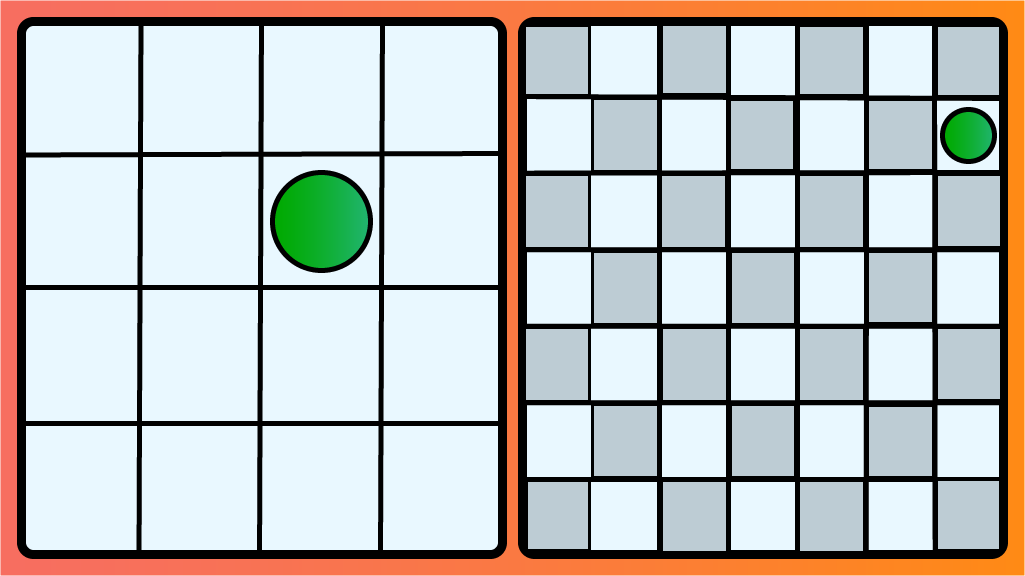
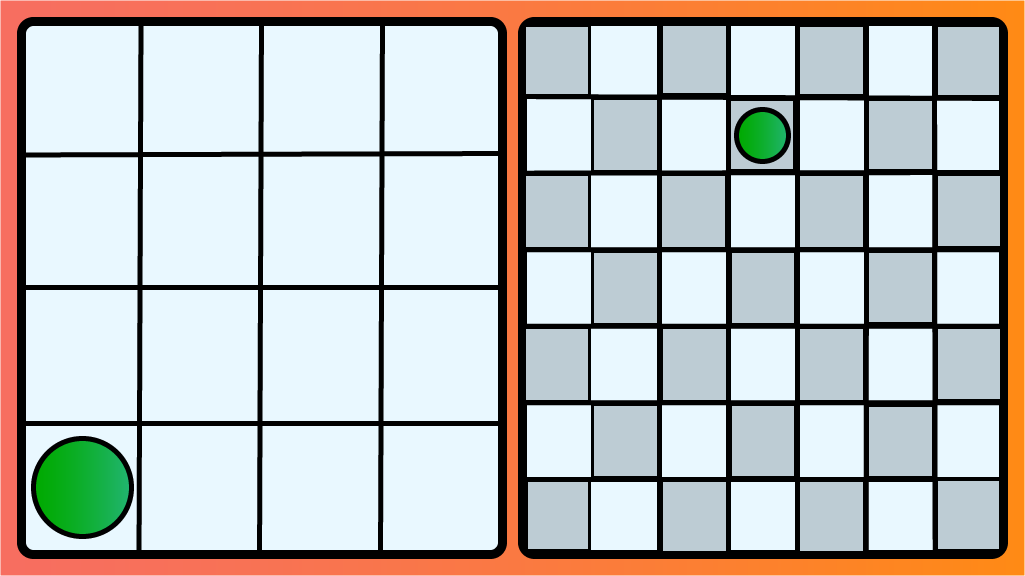
added level, added tutorial, improved level button design

diff --git a/Javascript/levels.js b/Javascript/levels.js
@@ -1,8 +1,29 @@
 let nextLevel;
 let prevLevel;
-let numLevels = 7
+let numLevels = 8
+
+// updates button style to show which level player is currently on
+function updateButtons(num) {
+    document.querySelector('#level' + num).style.border = '3px solid black'
+    for(let i = 1; i <= numLevels; i++) {
+        if(i !== num) {
+            document.querySelector('#level' + i).style.border = '3px solid grey'
+        }
+    }
+}
+
+// Called after pressing start game from menu screen. Sets all level buttons
+// to visible and starts the first level
+function enterGame() {
+    document.querySelector('#start').style.display = 'none'
+    for(let i = 1; i <= numLevels; i++) {
+        document.querySelector('#level' + i).style.display = 'inline'
+    }
+    startGame('level1')
+}
 
 function startGame(level = nextLevel) {
+   
     // level 1
     const level1 = new Level({
         levelNum: 1,
@@ -379,12 +400,86 @@ function startGame(level = nextLevel) {
             onFinish: false
         })    
     })
+     // level 4
+     const level6 = new Level({
+        levelNum: 6,
+        imageSrc: 'Img/level6.png',
+        barrierSrc: 'Img/level6-barrier.png',
+        position: {
+            x: 0,
+            y: 0
+        },
+    
+        // player
+        player: new Sprite ({
+            imageSrc: 'Img/player-beta.png',
+            position: {
+                x: PLAYER_START_X,
+                y: PLAYER_START_Y
+            },
+
+            /* 
+            2D levelMap array corresponds to each space in the player grid. 
+
+            0 = a space the player is not allowed to move to
+            1 = a space the player cannot move to
+            2 = the player's position
+            */
+            grid: [
+                [2,1,1,1],
+                [1,1,1,1],
+                [1,1,1,1],
+                [1,1,3,1]
+            ],
+            range: 1,
+            gridWidth: 482,
+            gridHeight: 536,
+            numRows: 4,
+            offsetX: GRID_MARGIN,
+            offsetY: GRID_MARGIN,
+            onFinish: false
+        }),
+
+        // mimic of player 
+        mimic: new Sprite({
+            imageSrc: 'Img/mimic-beta.png',
+            position: {
+                x: MIMIC_START_X,
+                y: MIMIC_START_Y
+            },
+
+            /* 
+            2D levelMap array corresponds to each space in the mimic grid. 
+
+            0 = a space the player is not allowed to move to
+            1 = a space the player cannot move to
+            2 = the player's position
+            3 = finishing space
+            */
+            grid: [
+                [2,1,1,1,0,0,0],
+                [0,0,0,1,0,0,0],
+                [1,1,0,1,1,1,1],
+                [1,1,1,1,1,1,1],
+                [1,1,1,1,3,1,1],
+                [1,1,1,1,1,1,1],
+                [1,1,1,1,1,1,1]
+            ],
+            range: 2,
+            gridWidth: 482,
+            gridHeight: 536,
+            numRows: 7,
+            offsetX: GRID_WIDTH + (GRID_MARGIN * 2),
+            offsetY: GRID_MARGIN,
+            onFinish: false
+        })    
+    })
 
     // level 5
-    const level6 = new Level({
-        levelNum: 6,
-        imageSrc: 'Img/level6-beta.png',
-        barrierSrc: 'Img/level6-beta-barrier.png',
+    const level7 = new Level({
+        levelNum: 7,
+        imageSrc: 'Img/level7-beta.png',
+        barrierSrc: 'Img/level7-beta-barrier.png',
         position: {
             x: 0,
             y: 0
@@ -455,10 +550,10 @@ function startGame(level = nextLevel) {
         })    
     })
     // level 6
-    const level7 = new Level({
-        levelNum: 7,
-        imageSrc: 'Img/level7-beta.png',
-        barrierSrc: 'Img/level7-beta-barrier.png',
+    const level8 = new Level({
+        levelNum: 8,
+        imageSrc: 'Img/level8-beta.png',
+        barrierSrc: 'Img/level8-beta-barrier.png',
         position: {
             x: 0,
             y: 0
@@ -532,15 +627,15 @@ function startGame(level = nextLevel) {
 
 // starts game based on level clicked on 
     if(level === "level1") {
+        //updates button styles for current level and completed levels
         updateButtons(1)
-        document.querySelector('#start').style.display = 'none'
+
         document.querySelector('#menu').style.display = 'none'
         document.querySelector('#tutorial1').style.display = 'inline'
         nextLevel = 'level2'
         playLevel(level1)
     } else if(level === "level2") {
         updateButtons(2)
-
         document.querySelector('#tutorial2').style.display = 'inline'
         nextLevel = 'level3'
         playLevel(level2)
@@ -559,11 +654,16 @@ function startGame(level = nextLevel) {
         playLevel(level5)
     } else if(level === "level6") {
         updateButtons(6)
+        document.querySelector('#tutorial4').style.display = 'inline'
         nextLevel = 'level7'
         playLevel(level6)
-    } else if (level == 'level7') {
+    } else if (level === 'level7') {
         updateButtons(7)
+        nextLevel = 'level8'
         playLevel(level7)
+    } else if (level === 'level8') {
+        updateButtons(8)
+        playLevel(level8)
     }
 }
 

diff --git a/mimic.html b/mimic.html
@@ -21,15 +21,23 @@
                 <!-- Teaches player how to utilize barriers -->
                 <p> ---TIP--- </p>
                 <p> Purple barriers can stop movement for one dot while the other can still move!</p>
-                <button class= "level-buttons" id = "finish-tutorial" onclick="closeTutorial('tutorial1')">Try it!</button>
+                <button class= "level-buttons" id = "finish-tutorial" onclick="closeTutorial('tutorial2')">Try it!</button>
             </div>
             <div id="tutorial3" class="tutorial" style="text-align: center; display: none;">
 
                 <!-- Teaches player how to move to different spaces  -->
                 <p>---TIP---</p>
                 <p>The pink dot may jump over its finish...</p>
-                <p>Try hitting it on the barrier to change from light to dark grid spaces</p>
-                <button class= "level-buttons" id = "finish-tutorial" onclick="closeTutorial('tutorial1')">Cool!</button>
+                <p>Try hitting it on the barrier to change between light and dark grid spaces</p>
+                <button class= "level-buttons" id = "finish-tutorial" onclick="closeTutorial('tutorial3')">Cool!</button>
+            </div>
+            <div id="tutorial4" class="tutorial" style="text-align: center; display: none;">
+
+                <!-- Teaches player how to move to use walls of grid to move to different spaces -->
+                <p>---TIP---</p>
+                <p>Remember, moving 1 space instead of 2 with the pink dot is possible</p>
+                <p>If you're one away from the edge of the grid, hit it to change between dark and light spaces</p>
+                <button class= "level-buttons" id = "finish-tutorial" onclick="closeTutorial('tutorial4')">Great!</button>
             </div>
 
             <!-- Level Complete -->
@@ -47,18 +55,19 @@
     </div>
 
     <!-- Level buttons, display updated after each completion -->
-    <div id="levels" style="float: right; width: 29%; height: 50%;">
-        <button id="level1" style = "display: none;" class= "level-buttons" onclick="startGame('level1')">Level 1</button>
-        <button id="level2" style = "display: none;" class= "level-buttons" onclick="startGame('level2')">Level 2</button>
-        <button id="level3" style = "display: none;" class= "level-buttons" onclick="startGame('level3')">Level 3</button>
-        <button id="level4" style = "display: none;" class= "level-buttons" onclick="startGame('level4')">Level 4</button>
-        <button id="level5" style = "display: none;" class= "level-buttons" onclick="startGame('level5')">Level 5</button>
-        <button id="level6" style = "display: none;" class= "level-buttons" onclick="startGame('level6')">Level 6</button>
-        <button id="level7" style = "display: none;" class= "level-buttons" onclick="startGame('level7')">Level 7</button>
+    <div id="levels" style="float: right; width: 30%;">
+        <button id="level1" style = "display: none;" class= "level-buttons" onclick="startGame('level1')">1</button>
+        <button id="level2" style = "display: none;" class= "level-buttons" onclick="startGame('level2')">2</button>
+        <button id="level3" style = "display: none;" class= "level-buttons" onclick="startGame('level3')">3</button>
+        <button id="level4" style = "display: none;" class= "level-buttons" onclick="startGame('level4')">4</button>
+        <button id="level5" style = "display: none;" class= "level-buttons" onclick="startGame('level5')">5</button>
+        <button id="level6" style = "display: none;" class= "level-buttons" onclick="startGame('level6')">6</button>
+        <button id="level7" style = "display: none;" class= "level-buttons" onclick="startGame('level7')">7</button>
+        <button id="level8" style = "display: none;" class= "level-buttons" onclick="startGame('level8')">8</button>
     </div>
+    <script src="Javascript/utils.js"></script>
     <script src="Javascript/classes.js"></script>
     <script src="Javascript/mimic.js"></script>
     <script src="Javascript/levels.js"></script>
-    <script src="Javascript/utils.js"></script>
     <link href="mimic.css" type="text/css" rel="stylesheet">
 </body>

diff --git a/Javascript/utils.js b/Javascript/utils.js
@@ -71,7 +71,6 @@ function updateGrid(sprite, direction, numSpaces) {
             }
             sprite.grid[sprite.gridPosY][sprite.gridPosX + numSpaces] = 2
         }
-        console.log(sprite.grid)
 
         // updates grid position
         sprite.gridPosX += numSpaces   
@@ -88,7 +87,6 @@ function updateGrid(sprite, direction, numSpaces) {
             sprite.grid[sprite.gridPosY][sprite.gridPosX - numSpaces] = 2
         }
         sprite.gridPosX -= numSpaces
-        console.log(sprite.grid)
 
     } else if (direction === "down") {
         if(sprite.onFinish) {
@@ -103,7 +101,6 @@ function updateGrid(sprite, direction, numSpaces) {
             sprite.grid[sprite.gridPosY + numSpaces][sprite.gridPosX] = 2
         }
         sprite.gridPosY += numSpaces
-        console.log(sprite.grid)
   
     } else {
         if(sprite.onFinish) {
@@ -118,7 +115,6 @@ function updateGrid(sprite, direction, numSpaces) {
             sprite.grid[sprite.gridPosY - numSpaces][sprite.gridPosX] = 2
         }
         sprite.gridPosY -= numSpaces
-        console.log(sprite.grid)
     }
 }
 
@@ -394,24 +390,10 @@ function closeTutorial(tutorial) {
             document.querySelector('#tutorial2').style.display = 'none'
         case "tutorial3":
             document.querySelector('#tutorial3').style.display = 'none'
+        case "tutorial4":
+            document.querySelector('#tutorial4').style.display = 'none'
     }
 }
 
-function updateButtons(num) {
-    document.querySelector('#level' + num).style.border = '3px solid black'
-    for(let i = 1; i <= numLevels; i++) {
-        if(i !== num) {
-            document.querySelector('#level' + i).style.border = '0px solid black'
-        }
-    }
-}
-
-function enterGame() {
-    document.querySelector('#start').style.display = 'none'
-    for(let i = 1; i <= numLevels; i++) {
-        document.querySelector('#level' + i).style.display = 'inline'
-    }
-    startGame('level1')
-}
 
 

diff --git a/mimic.css b/mimic.css
@@ -1,8 +1,11 @@
+#container {
+    border-radius:5px;
+}
 #levels {
     margin-top: 5px;
 }
 .level-buttons {
-    font-size: 25px;
+    font-size: 55px;
     box-shadow: 3px 4px 0px 0px #91b8b3;
 	background:linear-gradient(to bottom, #768d87 5%, #6c7c7c 100%);
 	background-color:#5a6c5c;
